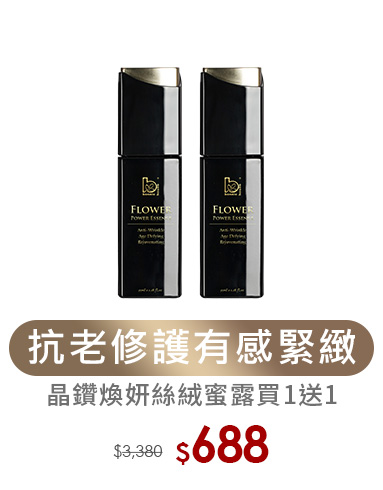
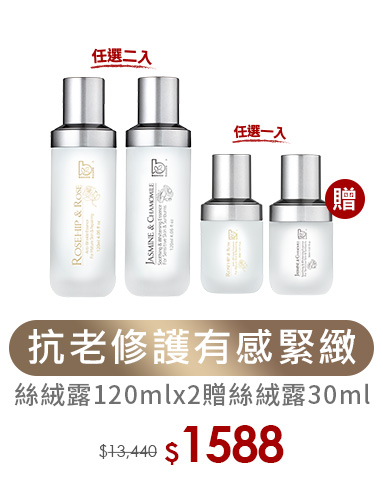
Add files via upload

Changed region(s): [[0.1149, 0.0918, 0.9765, 0.6122], [0.0287, 0.7653, 0.9765, 0.8265], [0.2585, 0.8571, 0.7467, 0.949]]

diff --git a/index.html b/index.html
@@ -91,19 +91,17 @@
   <a id="list_A"></a>
   <div class="momostyle_edm_main edm_main_a momostyle_edm_all">
   <ul>
-      <li><a href="https://www.momoshop.com.tw/goods/GoodsDetail.jsp?i_code=4430107" target="_blank"><img src="images/main_a_01.png" alt=""></a></li>
-      <li><a href="https://www.momoshop.com.tw/goods/GoodsDetail.jsp?i_code=10347793" target="_blank"><img src="images/main_a_02.png" alt=""></a></li>
-      <li><a href="https://www.momoshop.com.tw/goods/GoodsDetail.jsp?i_code=13554375" target="_blank"><img src="images/main_a_03.png" alt=""></a></li>
-      <li><a href="https://www.momoshop.com.tw/goods/GoodsDetail.jsp?i_code=13846772" target="_blank"><img src="images/main_a_04.png" alt=""></a></li>
-      <li><a href="https://www.momoshop.com.tw/goods/GoodsDetail.jsp?i_code=4590608" target="_blank"><img src="images/main_a_05.png" alt=""></a></li>
-      <li><a href="https://www.momoshop.com.tw/goods/GoodsDetail.jsp?i_code=6232371" target="_blank"><img src="images/main_a_06.png" alt=""></a></li>
-	  <li><a href="https://www.momoshop.com.tw/goods/GoodsDetail.jsp?i_code=11062594" target="_blank"><img src="images/main_a_07.png" alt=""></a></li>
-      <li><a href="https://www.momoshop.com.tw/goods/GoodsDetail.jsp?i_code=7074487" target="_blank"><img src="images/main_a_08.png" alt=""></a></li>	
+      <li><a href="https://www.momoshop.com.tw/goods/GoodsDetail.jsp?i_code=7198814" target="_blank"><img src="images/main_a_01.png" alt=""></a></li>
+      <li><a href="https://www.momoshop.com.tw/goods/GoodsDetail.jsp?i_code=8283818" target="_blank"><img src="images/main_a_02.png" alt=""></a></li>
+      <li><a href="https://www.momoshop.com.tw/goods/GoodsDetail.jsp?i_code=7074487" target="_blank"><img src="images/main_a_03.png" alt=""></a></li>
+      <li><a href="https://www.momoshop.com.tw/goods/GoodsDetail.jsp?i_code=5775767" target="_blank"><img src="images/main_a_04.png" alt=""></a></li>
+      <li><a href="https://www.momoshop.com.tw/goods/GoodsDetail.jsp?i_code=13846772" target="_blank"><img src="images/main_a_05.png" alt=""></a></li>
+      <li><a href="https://www.momoshop.com.tw/goods/GoodsDetail.jsp?i_code=11062594" target="_blank"><img src="images/main_a_06.png" alt=""></a></li>	
   </ul>
   <div class="main_bar momostyle_edm_all"><img src="images/BAR_03.png" alt=""></div>
   <ul>
-      <li><a href="https://www.momoshop.com.tw/goods/GoodsDetail.jsp?i_code=10566835" target="_blank"><img src="images/main_b_01.png" alt=""></a></li>
-      <li><a href="https://www.momoshop.com.tw/goods/GoodsDetail.jsp?i_code=8970188" target="_blank"><img src="images/main_b_02.png" alt=""></a></li>     
+      <li><a href="https://www.momoshop.com.tw/goods/GoodsDetail.jsp?i_code=10144286" target="_blank"><img src="images/main_b_01.png" alt=""></a></li>
+      <li><a href="https://www.momoshop.com.tw/goods/GoodsDetail.jsp?i_code=8753781" target="_blank"><img src="images/main_b_02.png" alt=""></a></li>     
   </ul>
   </div>  
     
@@ -114,7 +112,7 @@
   <ul>
       <li><a href="https://www.momoshop.com.tw/goods/GoodsDetail.jsp?i_code=9357253" target="_blank"><img src="images/list_a_01.jpg" alt=""></a></li>
       <li><a href="https://www.momoshop.com.tw/goods/GoodsDetail.jsp?i_code=13351815" target="_blank"><img src="images/list_a_02.jpg" alt=""></a></li>
-      <li><a href="https://www.momoshop.com.tw/goods/GoodsDetail.jsp?i_code=8283818" target="_blank"><img src="images/list_a_03.jpg" alt=""></a></li>
+      <li><a href="https://www.momoshop.com.tw/goods/GoodsDetail.jsp?i_code=8165505" target="_blank"><img src="images/list_a_03.jpg" alt=""></a></li>
   </ul>
   </div>
     
@@ -122,7 +120,7 @@
   <div class="edm_list_bn"><img src="images/list_b_bn.jpg" alt=""></div>
   <div class="momostyle_edm_list edm_list_b momostyle_edm_all">
   <ul>
-      <li><a href="https://www.momoshop.com.tw/goods/GoodsDetail.jsp?i_code=6215412" target="_blank"><img src="images/list_b_01.jpg" alt=""></a></li>
+      <li><a href="https://www.momoshop.com.tw/goods/GoodsDetail.jsp?i_code=8044676" target="_blank"><img src="images/list_b_01.jpg" alt=""></a></li>
       <li><a href="https://www.momoshop.com.tw/goods/GoodsDetail.jsp?i_code=7190229" target="_blank"><img src="images/list_b_02.jpg" alt=""></a></li>
       <li><a href="https://www.momoshop.com.tw/goods/GoodsDetail.jsp?i_code=13351875" target="_blank"><img src="images/list_b_03.jpg" alt=""></a></li>
   </ul>
@@ -135,7 +133,7 @@
   <ul>
       <li><a href="https://www.momoshop.com.tw/goods/GoodsDetail.jsp?i_code=6418871" target="_blank"><img src="images/list_c_01.jpg" alt=""></a></li>
       <li><a href="https://www.momoshop.com.tw/goods/GoodsDetail.jsp?i_code=11381803" target="_blank"><img src="images/list_c_02.jpg" alt=""></a></li>
-      <li><a href="https://www.momoshop.com.tw/goods/GoodsDetail.jsp?i_code=13948266" target="_blank"><img src="images/list_c_03.jpg" alt=""></a></li>
+      <li><a href="https://www.momoshop.com.tw/goods/GoodsDetail.jsp?i_code=13933298" target="_blank"><img src="images/list_c_03.jpg" alt=""></a></li>
   </ul>	  
   </div>
 	
@@ -149,11 +147,20 @@
   </ul>	  
   </div>
   
-  <a id="list_F"></a>
-  <div class="edm_list_bn"><a href="https://www.momoshop.com.tw/goods/GoodsDetail.jsp?i_code=14169305" target="_blank"><img src="images/list_e_bn.jpg" alt=""></div>
+  <a id="list_G"></a>
+  <div class="edm_list_bn"><img src="images/list_c_bn.jpg" alt=""></div>
   <div class="momostyle_edm_list edm_list_c momostyle_edm_all">
+  <ul>
+      <li><a href="https://www.momoshop.com.tw/goods/GoodsDetail.jsp?i_code=13351815" target="_blank"><img src="images/list_c_01.jpg" alt=""></a></li>
+      <li><a href="https://www.momoshop.com.tw/goods/GoodsDetail.jsp?i_code=13770282" target="_blank"><img src="images/list_c_02.jpg" alt=""></a></li>
+      <li><a href="https://www.momoshop.com.tw/goods/GoodsDetail.jsp?i_code=12568955" target="_blank"><img src="images/list_c_03.jpg" alt=""></a></li>
+  </ul>
+  </div>
+    
+  <a id="list_H"></a>
+  <div class="edm_list_bn"><a href="https://www.momoshop.com.tw/goods/GoodsDetail.jsp?i_code=14169305" target="_blank"><img src="images/list_e_bn.jpg" alt=""></a></div>
 	
-  <a id="list_F"></a>
+  <a id="list_I"></a>
   <div class="edm_list_bn"><img src="images/bottom_01.png" alt=""></div>
   <div class="edm_list_bn"><img src="images/bottom_02.png" alt=""></div>
 
@@ -162,7 +169,7 @@
           <li><img src="images/remind_st.png" alt=""></li>
           <li><a href="https://bonniehouse.momoshop.com.tw/main" target="_blank"><img src="images/decorte_go.jpg" alt=""></a></li>
       </ul>
-  </div>   
+  </div>
     
 
   <!--footer-->

diff --git a/images/style_rf.css b/images/style_rf.css
@@ -1,6 +1,6 @@
 @charset "big5";
 /* CSS Document */
-body {background: #cbebff!important; margin: 0 auto!important; /*text-align: center;*/}
+body {background: #800c23!important; margin: 0 auto!important; /*text-align: center;*/}
 .Area_top .momologo { left: 40px!important; }
 .Area_top .momologo a:hover{ transform: scale(1)!important;}
 .Area_top .momologo a {
@@ -57,7 +57,7 @@ a img,li {
 }
 
 
-.momostyle_edm_kv { width: 100%; margin: auto; position: relative; background-color: #cbebff;}
+.momostyle_edm_kv { width: 100%; margin: auto; position: relative; background-color: #8c1832;}
 .momostyle_edm_kv > img,
 .momostyle_edm_kv > span { display: block; position: absolute; margin: auto;}
 
@@ -129,9 +129,9 @@ a img,li {
 .momostyle_edm_list { margin:0 auto 2% auto; position: relative; z-index: 0;}
 .momostyle_edm_list ul { width: calc(100% - 4%); padding:2%; margin:0; display: inline-block; background-repeat: no-repeat;}
 .momostyle_edm_list ul li{ width: calc(100% / 3 - 1%); margin:0.5%; vertical-align: bottom;}
-.edm_list_a ul { background-color: #2685c7;}
-.edm_list_b ul { background-color: #2685c7;}
-.edm_list_c ul { background-color: #2685c7;}
+.edm_list_a ul { background-color: #af6d38;}
+.edm_list_b ul { background-color: #af6d38;}
+.edm_list_c ul { background-color: #af6d38;}
 
 
 .edm_list_bn { max-width: 1220px; margin:5% auto 0 auto;}
@@ -141,7 +141,7 @@ a img,li {
 .momostyle_edm_bn ul li{ width: calc(100% / 2 - 1%); margin:0.5%;}
 
 
-.momostyle_edm_go { width: 100%;  margin:2% auto; text-align: center; background-color: #2685c7;}
+.momostyle_edm_go { width: 100%;  margin:2% auto; text-align: center; background-color: #000000;}
 .momostyle_edm_go ul { max-width: 1220px; margin:0% auto; padding:2% 0; }
 .momostyle_edm_go ul li { width: calc(100% / 1 - 6%); margin:0 3%; }
 .momostyle_edm_go ul li img { max-width: 100%; width: auto;}
